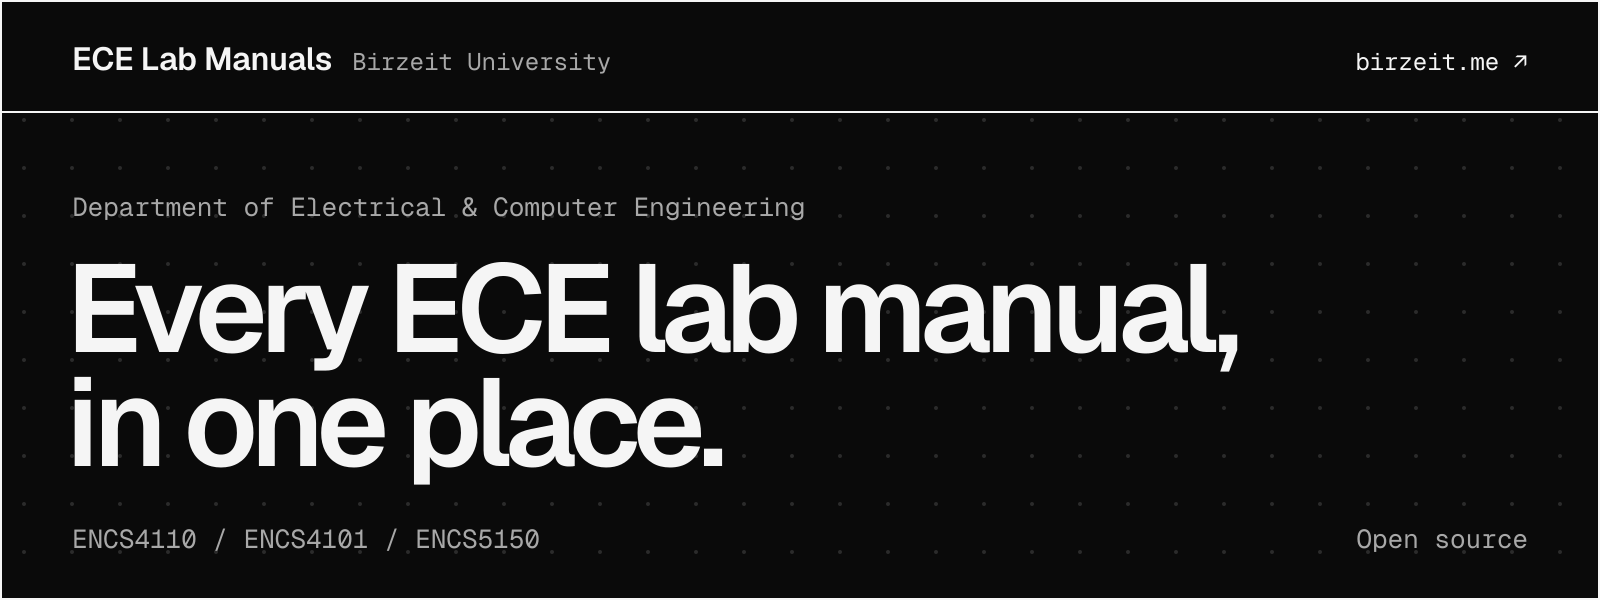
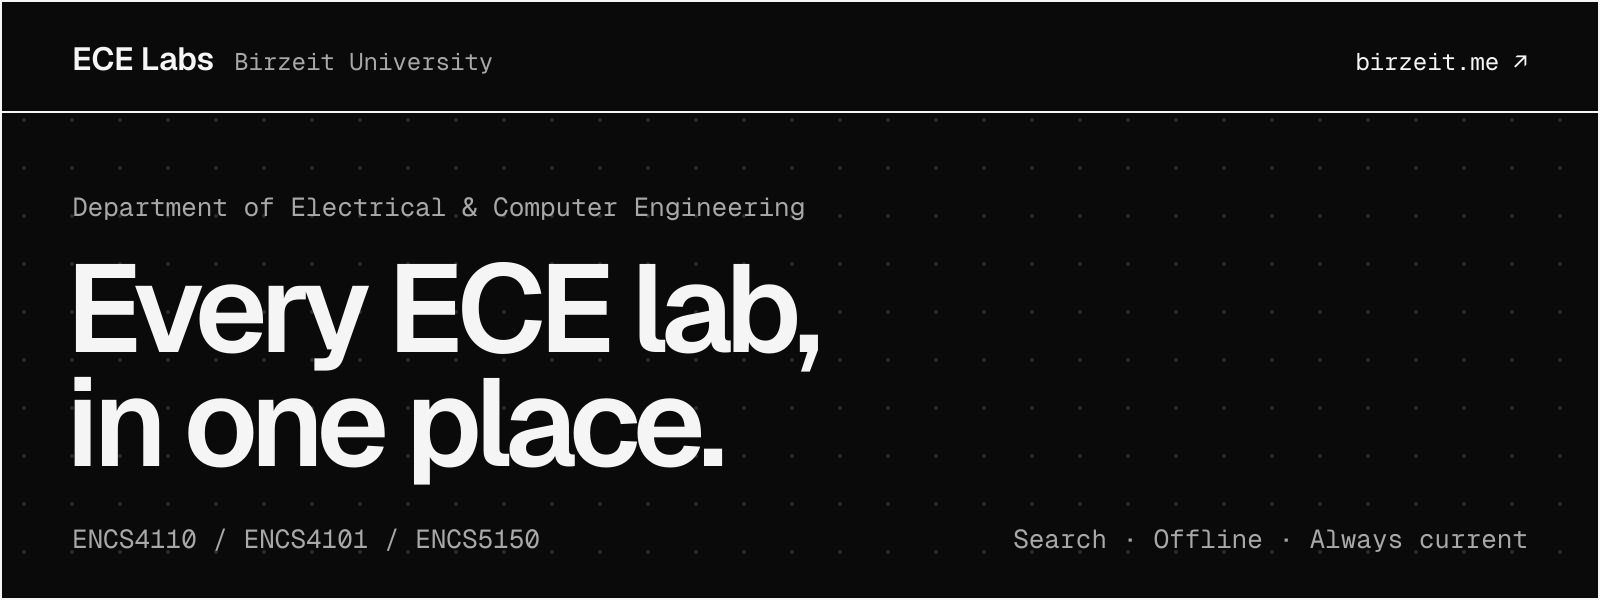
Rename ECE Lab Manuals to ECE Labs; present it as a web platform

diff --git a/profile/README.md b/profile/README.md
@@ -1,11 +1,11 @@
 <a href="https://birzeit.me">
   <picture>
     <source media="(prefers-color-scheme: dark)" srcset="https://raw.githubusercontent.com/ECE-Birzeit/.github/main/profile/assets/banner-dark.png">
-    <img alt="ECE Lab Manuals · Birzeit University. Every ECE lab manual, in one place." src="https://raw.githubusercontent.com/ECE-Birzeit/.github/main/profile/assets/banner-light.png" width="100%">
+    <img alt="ECE Labs · Birzeit University. Every ECE lab, in one place." src="https://raw.githubusercontent.com/ECE-Birzeit/.github/main/profile/assets/banner-light.png" width="100%">
   </picture>
 </a>
 
-Open, step-by-step lab manuals for the Department of Electrical & Computer Engineering at Birzeit University. Each lab has a web manual, a printable PDF, and a setup guide for its toolchain.
+A web platform for the lab manuals of the Department of Electrical & Computer Engineering at Birzeit University. Each lab has a searchable web manual with copy-paste code, a printable PDF, and a setup guide for its toolchain. Fixes go live as soon as they are merged.
 
 ## Labs
 

diff --git a/CONTRIBUTING.md b/CONTRIBUTING.md
@@ -1,4 +1,4 @@
-# Contributing to ECE Lab Manuals
+# Contributing to ECE Labs
 
 These manuals are read by students at the bench, in the middle of a lab session. A wrong pin number or a step that no longer matches the IDE costs a whole group their time, so every fix helps, however small.
 
